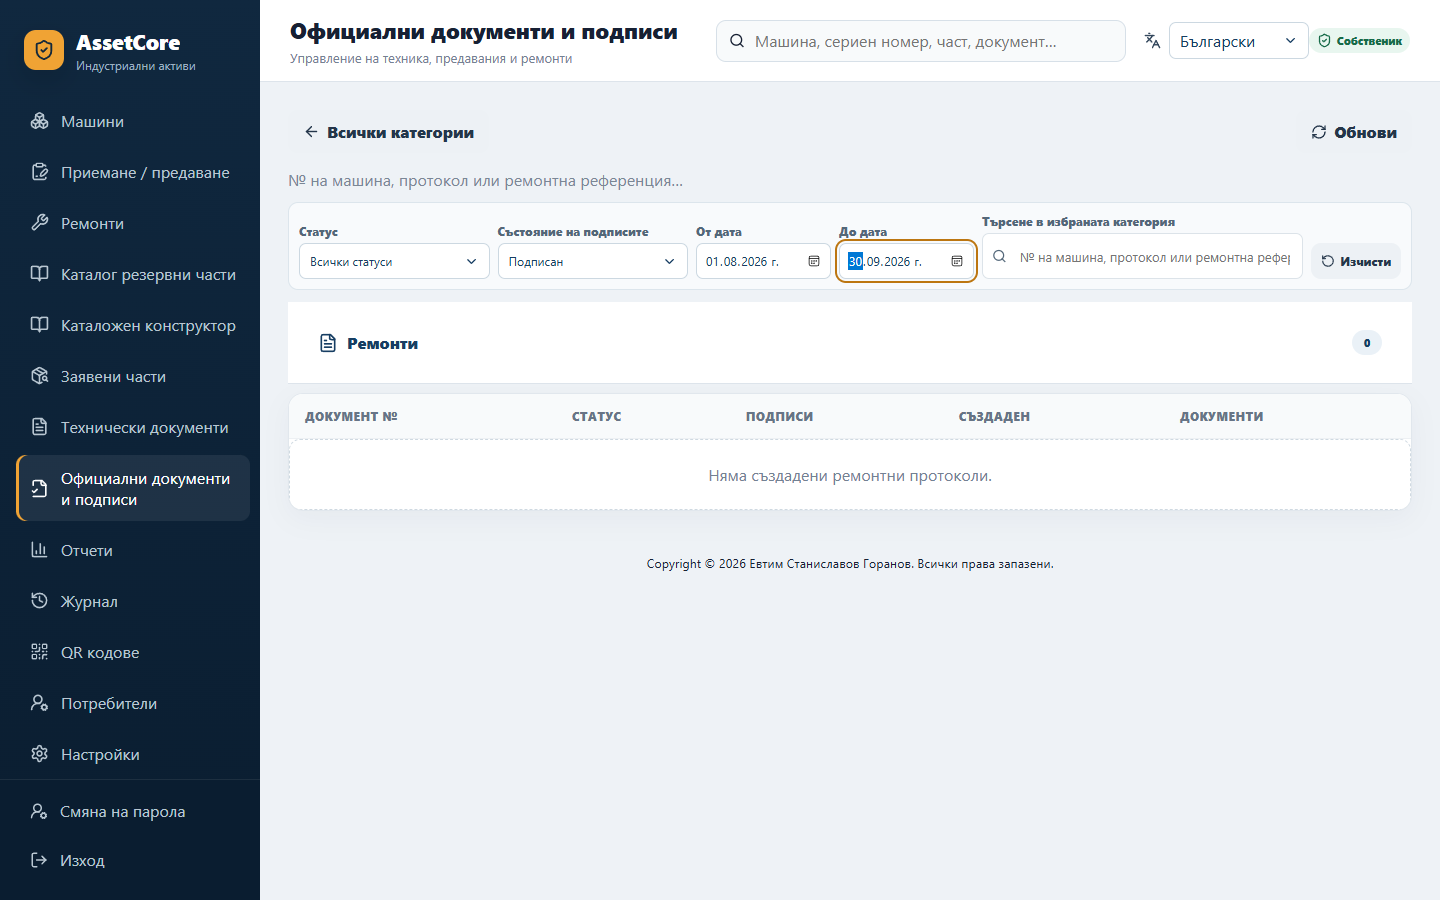
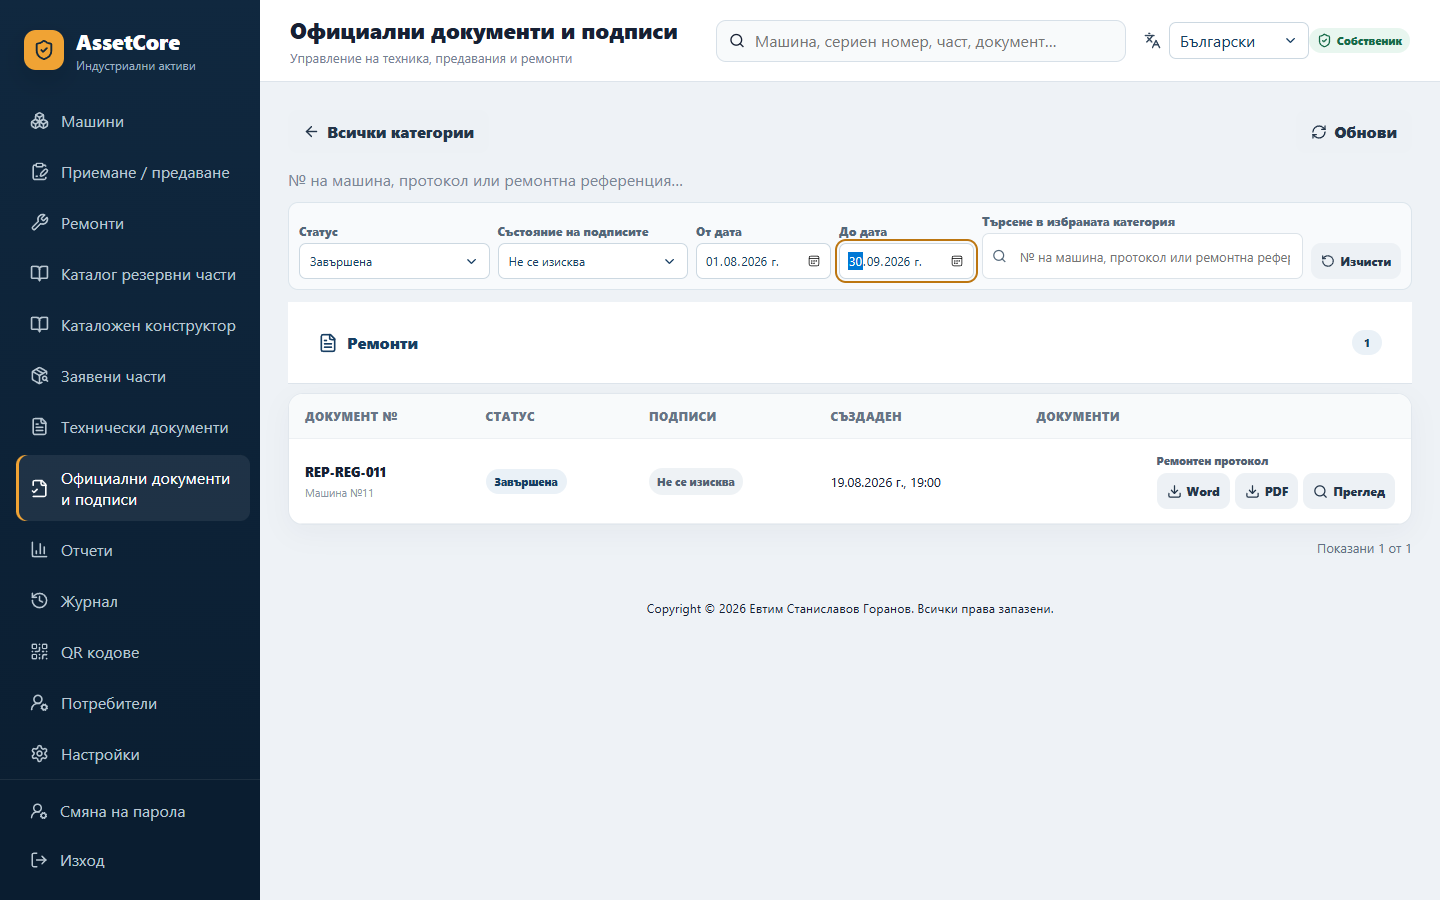
Complete independent registry filter coverage and refresh browser evidence

diff --git a/frontend/src/features/officialDocuments/OfficialDocuments.test.tsx b/frontend/src/features/officialDocuments/OfficialDocuments.test.tsx
@@ -1,4 +1,4 @@
-import { cleanup, render, screen, waitFor, within } from '@testing-library/react'
+import { cleanup, fireEvent, render, screen, waitFor, within } from '@testing-library/react'
 import userEvent from '@testing-library/user-event'
 import { afterEach, beforeEach, describe, expect, it, vi } from 'vitest'
 
@@ -95,6 +95,42 @@ describe('OfficialDocuments category registry screen', () => {
   afterEach(() => {
     cleanup()
     vi.unstubAllGlobals()
+  })
+
+  it('keeps status, signatures, dates and debounced search independent for all three categories', async () => {
+    const fetchMock = vi.fn(async (input: RequestInfo | URL) => {
+      const url = String(input)
+      if (url.endsWith('/registry/counts')) return json({ transfers: 1, repairs: 1, parts: 1 })
+      const category = new URL(url, 'https://qa.invalid').searchParams.get('category') as OfficialRegistryCategory
+      return json(registryPage(category, []))
+    })
+    vi.stubGlobal('fetch', fetchMock)
+    const user = userEvent.setup()
+    renderOfficialDocuments()
+    await user.click(await screen.findByRole('button', { name: /^Отвори Приемане/ }))
+    await user.type(screen.getByLabelText('Търсене в избраната категория'), 'TR-QA')
+    await user.click(screen.getByRole('combobox', { name: 'Статус' }))
+    await user.click(screen.getByRole('option', { name: 'Незавършен' }))
+    await user.click(screen.getByRole('combobox', { name: 'Състояние на подписите' }))
+    await user.click(screen.getByRole('option', { name: 'Подписан' }))
+    fireEvent.change(screen.getByLabelText('От дата'), { target: { value: '2026-08-01' } })
+    fireEvent.change(screen.getByLabelText('До дата'), { target: { value: '2026-08-31' } })
+    const transferPath = '/api/official-documents/registry/items?category=transfers&page=1&page_size=25&q=TR-QA&status=INCOMPLETE&signature_status=SIGNED&date_from=2026-08-01&date_to=2026-08-31'
+    await waitFor(() => expect(urls(fetchMock)).toContain(transferPath))
+    for (const title of ['Ремонти', 'Заявени части']) {
+      await user.click(screen.getByRole('button', { name: 'Всички категории' }))
+      await user.click(await screen.findByRole('button', { name: new RegExp(`^Отвори ${title}`) }))
+      expect(screen.getByLabelText('Търсене в избраната категория')).toHaveValue('')
+      expect(screen.getByLabelText('От дата')).toHaveValue('')
+      expect(screen.getByRole('combobox', { name: 'Статус' })).toHaveTextContent('Всички статуси')
+      await user.type(screen.getByLabelText('Търсене в избраната категория'), title === 'Ремонти' ? 'REP-QA' : 'PR-QA')
+    }
+    await user.click(screen.getByRole('button', { name: 'Всички категории' }))
+    await user.click(await screen.findByRole('button', { name: /^Отвори Приемане/ }))
+    expect(screen.getByLabelText('Търсене в избраната категория')).toHaveValue('TR-QA')
+    expect(screen.getByLabelText('До дата')).toHaveValue('2026-08-31')
+    expect(screen.getByRole('combobox', { name: 'Състояние на подписите' })).toHaveTextContent('Подписан')
+    expectNoMassRegistryRequest(fetchMock)
   })
 
   it('loads counts only and renders exactly three truthful keyboard-accessible category cards', async () => {

diff --git a/tests/test_registry_catalog_02.py b/tests/test_registry_catalog_02.py
@@ -257,13 +257,26 @@ def test_registry_filters_use_real_signature_evidence_before_pagination(client, 
     with session_factory() as db:
         machines = dict(db.execute(select(Machine.inventory_number, Machine.id)).all())
     _seed_registry_scenario(session_factory, machines)
-    for signature in ("SIGNED", "PARTIALLY_SIGNED", "UNSIGNED", "UNKNOWN", "NOT_REQUIRED"):
-        response = client.get(f"/api/official-documents/registry/items?category=transfers&signature_status={signature}&page_size=1", headers=auth_headers)
-        assert response.status_code == 200, response.text
-        assert all(item["signature_status"] == signature for item in response.json()["items"])
-        if response.json()["total"]:
-            assert response.json()["count"] == 1
+    for category in ("transfers", "repairs", "parts"):
+        for signature in ("SIGNED", "PARTIALLY_SIGNED", "UNSIGNED", "UNKNOWN", "NOT_REQUIRED"):
+            response = client.get(f"/api/official-documents/registry/items?category={category}&signature_status={signature}&page_size=1", headers=auth_headers)
+            assert response.status_code == 200, response.text
+            assert all(item["signature_status"] == signature for item in response.json()["items"])
+            if response.json()["total"]:
+                assert response.json()["count"] == 1
     response = client.get("/api/official-documents/registry/items?category=transfers&q=G39300297&status=INCOMPLETE&date_from=2026-08-20&date_to=2026-08-20", headers=auth_headers)
     assert response.status_code == 200 and response.json()["total"] == 1, response.text
     assert response.json()["items"][0]["machine_number"] == "9"
+    for category, serial, status, signature, day in (
+        ("repairs", "G39300299", "COMPLETED", "NOT_REQUIRED", "2026-08-19"),
+        ("parts", "G39300415", "APPROVED", "UNSIGNED", "2026-08-23"),
+    ):
+        params = dict(category=category, q=serial, status=status, signature_status=signature,
+                      date_from=day, date_to=day, page_size=1)
+        response = client.get("/api/official-documents/registry/items", headers=auth_headers, params=params)
+        assert response.status_code == 200 and response.json()["total"] == 1, response.text
+        assert response.json()["items"][0]["workflow_status"] == status
+        response = client.get("/api/official-documents/registry/items", headers=auth_headers,
+                              params={**params, "date_to": "2026-01-01"})
+        assert response.status_code == 200 and response.json()["total"] == 0
     assert client.get("/api/official-documents/registry/items?category=transfers&signature_status=INVALID", headers=auth_headers).status_code == 422

diff --git a/tests/postgres/catalog_builder_backup_rehearsal.py b/tests/postgres/catalog_builder_backup_rehearsal.py
@@ -206,7 +206,7 @@ def main():
     engine.dispose()
     print(json.dumps({"pre_builder_upgrade": "passed", "encrypted_builder_restore": "passed",
                       "shared_binding_count": 2, "immutable_request_documents": "passed",
-                      "head": "20261001_0031", "anchors": anchors}, sort_keys=True))
+                      "head": "20261009_0032", "anchors": anchors}, sort_keys=True))
 
 
 if __name__ == "__main__":

diff --git a/tests/test_final_release_infrastructure.py b/tests/test_final_release_infrastructure.py
@@ -22,7 +22,7 @@ def _load_postgres_smoke_module():
 
 def test_postgres_smoke_uses_current_alembic_head() -> None:
     module = _load_postgres_smoke_module()
-    assert module._expected_head() == "20261001_0031"
+    assert module._expected_head() == "20261009_0032"
 
 
 def test_ci_covers_frontend_backend_postgres_and_docker() -> None:

diff --git a/docs/ASSETCORE_02_BG.md b/docs/ASSETCORE_02_BG.md
@@ -116,8 +116,11 @@ API проверява потвърдения part ID независимо от 
 
 ## Възпроизводима проверка
 
-Точните резултати и браузърни доказателства се добавят след приключване на
-проверките. Неизпълнени, прекъснати или skipped проверки не са успешни проверки.
+Браузърните доказателства и ограниченията са в
+[QA отчета](qa/registry-catalog-02/README.md). Пълният отчет за финалния commit,
+точните резултати и връзката към CI са в единствения
+[PR #100](https://github.com/djebedaq/AssetCore/pull/100).
+Неизпълнени, прекъснати или skipped проверки не са успешни проверки.
 
 ```text
 pnpm --dir frontend typecheck

diff --git a/docs/qa/registry-catalog-02/README.md b/docs/qa/registry-catalog-02/README.md
@@ -8,7 +8,8 @@ Microsoft Edge / Chromium 155.0.4283.45, desktop 1440×900, sidebar overflow
 [Машинночетим резултат](qa-results.json): 8 успешни групи, 17 screenshots,
 без browser page errors. Проверени са реални кликове, server search, deep link,
 scroll wheel, forced colors, избор на оригинални страници и конкретен вариант,
-две целеви машини, изрично потвърждение, debounce и филтри, QR scope и keyboard
+две целеви машини, изрично потвърждение, debounce, статус/подписи/период,
+независими филтри за трите категории, QR scope и keyboard
 focus. BG/EN/RU са отворени в браузъра.
 
 Печатът е проверен чрез Chromium print media и реален A4 PDF export: **27**
